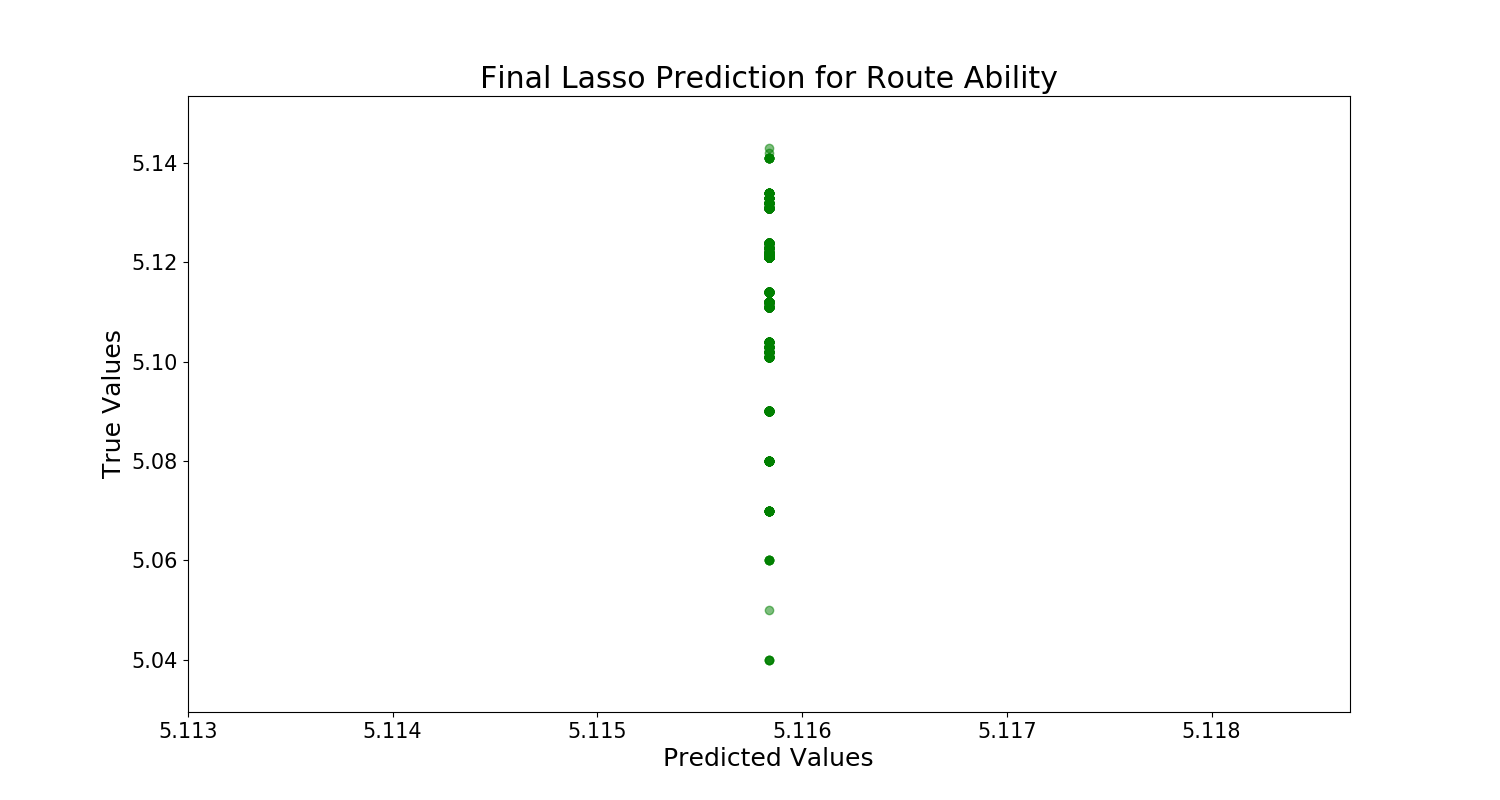
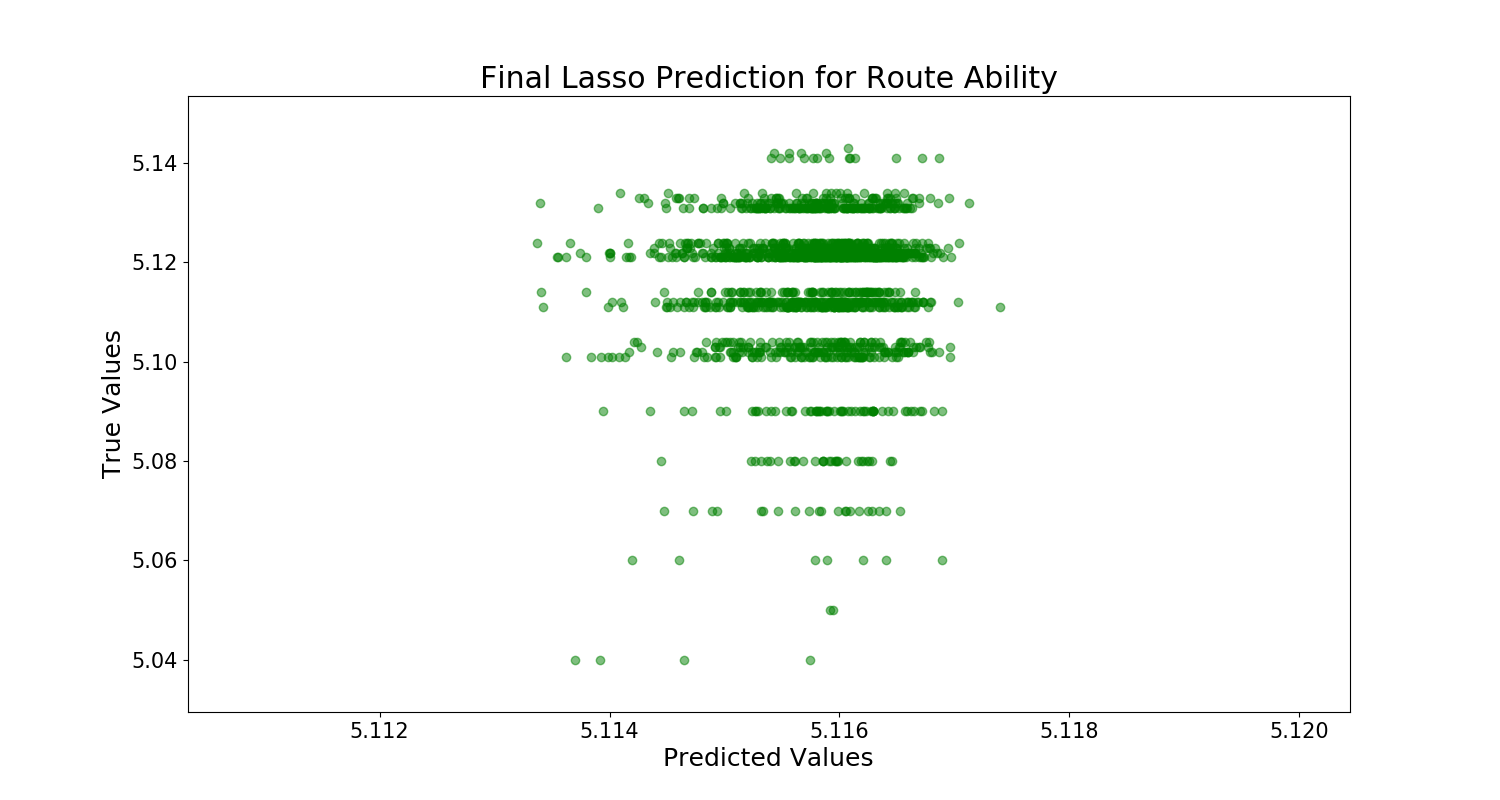
Run final models for climbing ability

diff --git a/src/ability_predictor.py b/src/ability_predictor.py
@@ -8,7 +8,7 @@ from sklearn.base import clone
 import matplotlib.pyplot as plt
 from sklearn.metrics import mean_squared_error as mse
 import utils
-from model import import_data
+from grade_model import import_data, get_route_models, get_boulder_models, test_model_on_hold
 
 def drop_columns_ability(df):
     cols = ['Unnamed: 0' ,'notes','climb_type','crag','sector','climb_country','method','birth','ascent_date','date','climb_name']
@@ -37,7 +37,7 @@ def main_ability_boulder():
     test_model_on_hold(X_train,y_train,X_hold,y_hold,Lasso,boulder_lasso.alpha_,'Final Lasso Prediction for Boulder Ability','images/lasso_model_boulder_ability.png')
 
 def main_ability_route():
-    boulders, routes = model.import_data()
+    boulders, routes = import_data()
     route = drop_columns_ability(routes)
     X_train, y_train, X_hold, y_hold = split_data_ability(route,'usa_routes')
     route_ridge, route_lasso = get_route_models(X_train,y_train)
